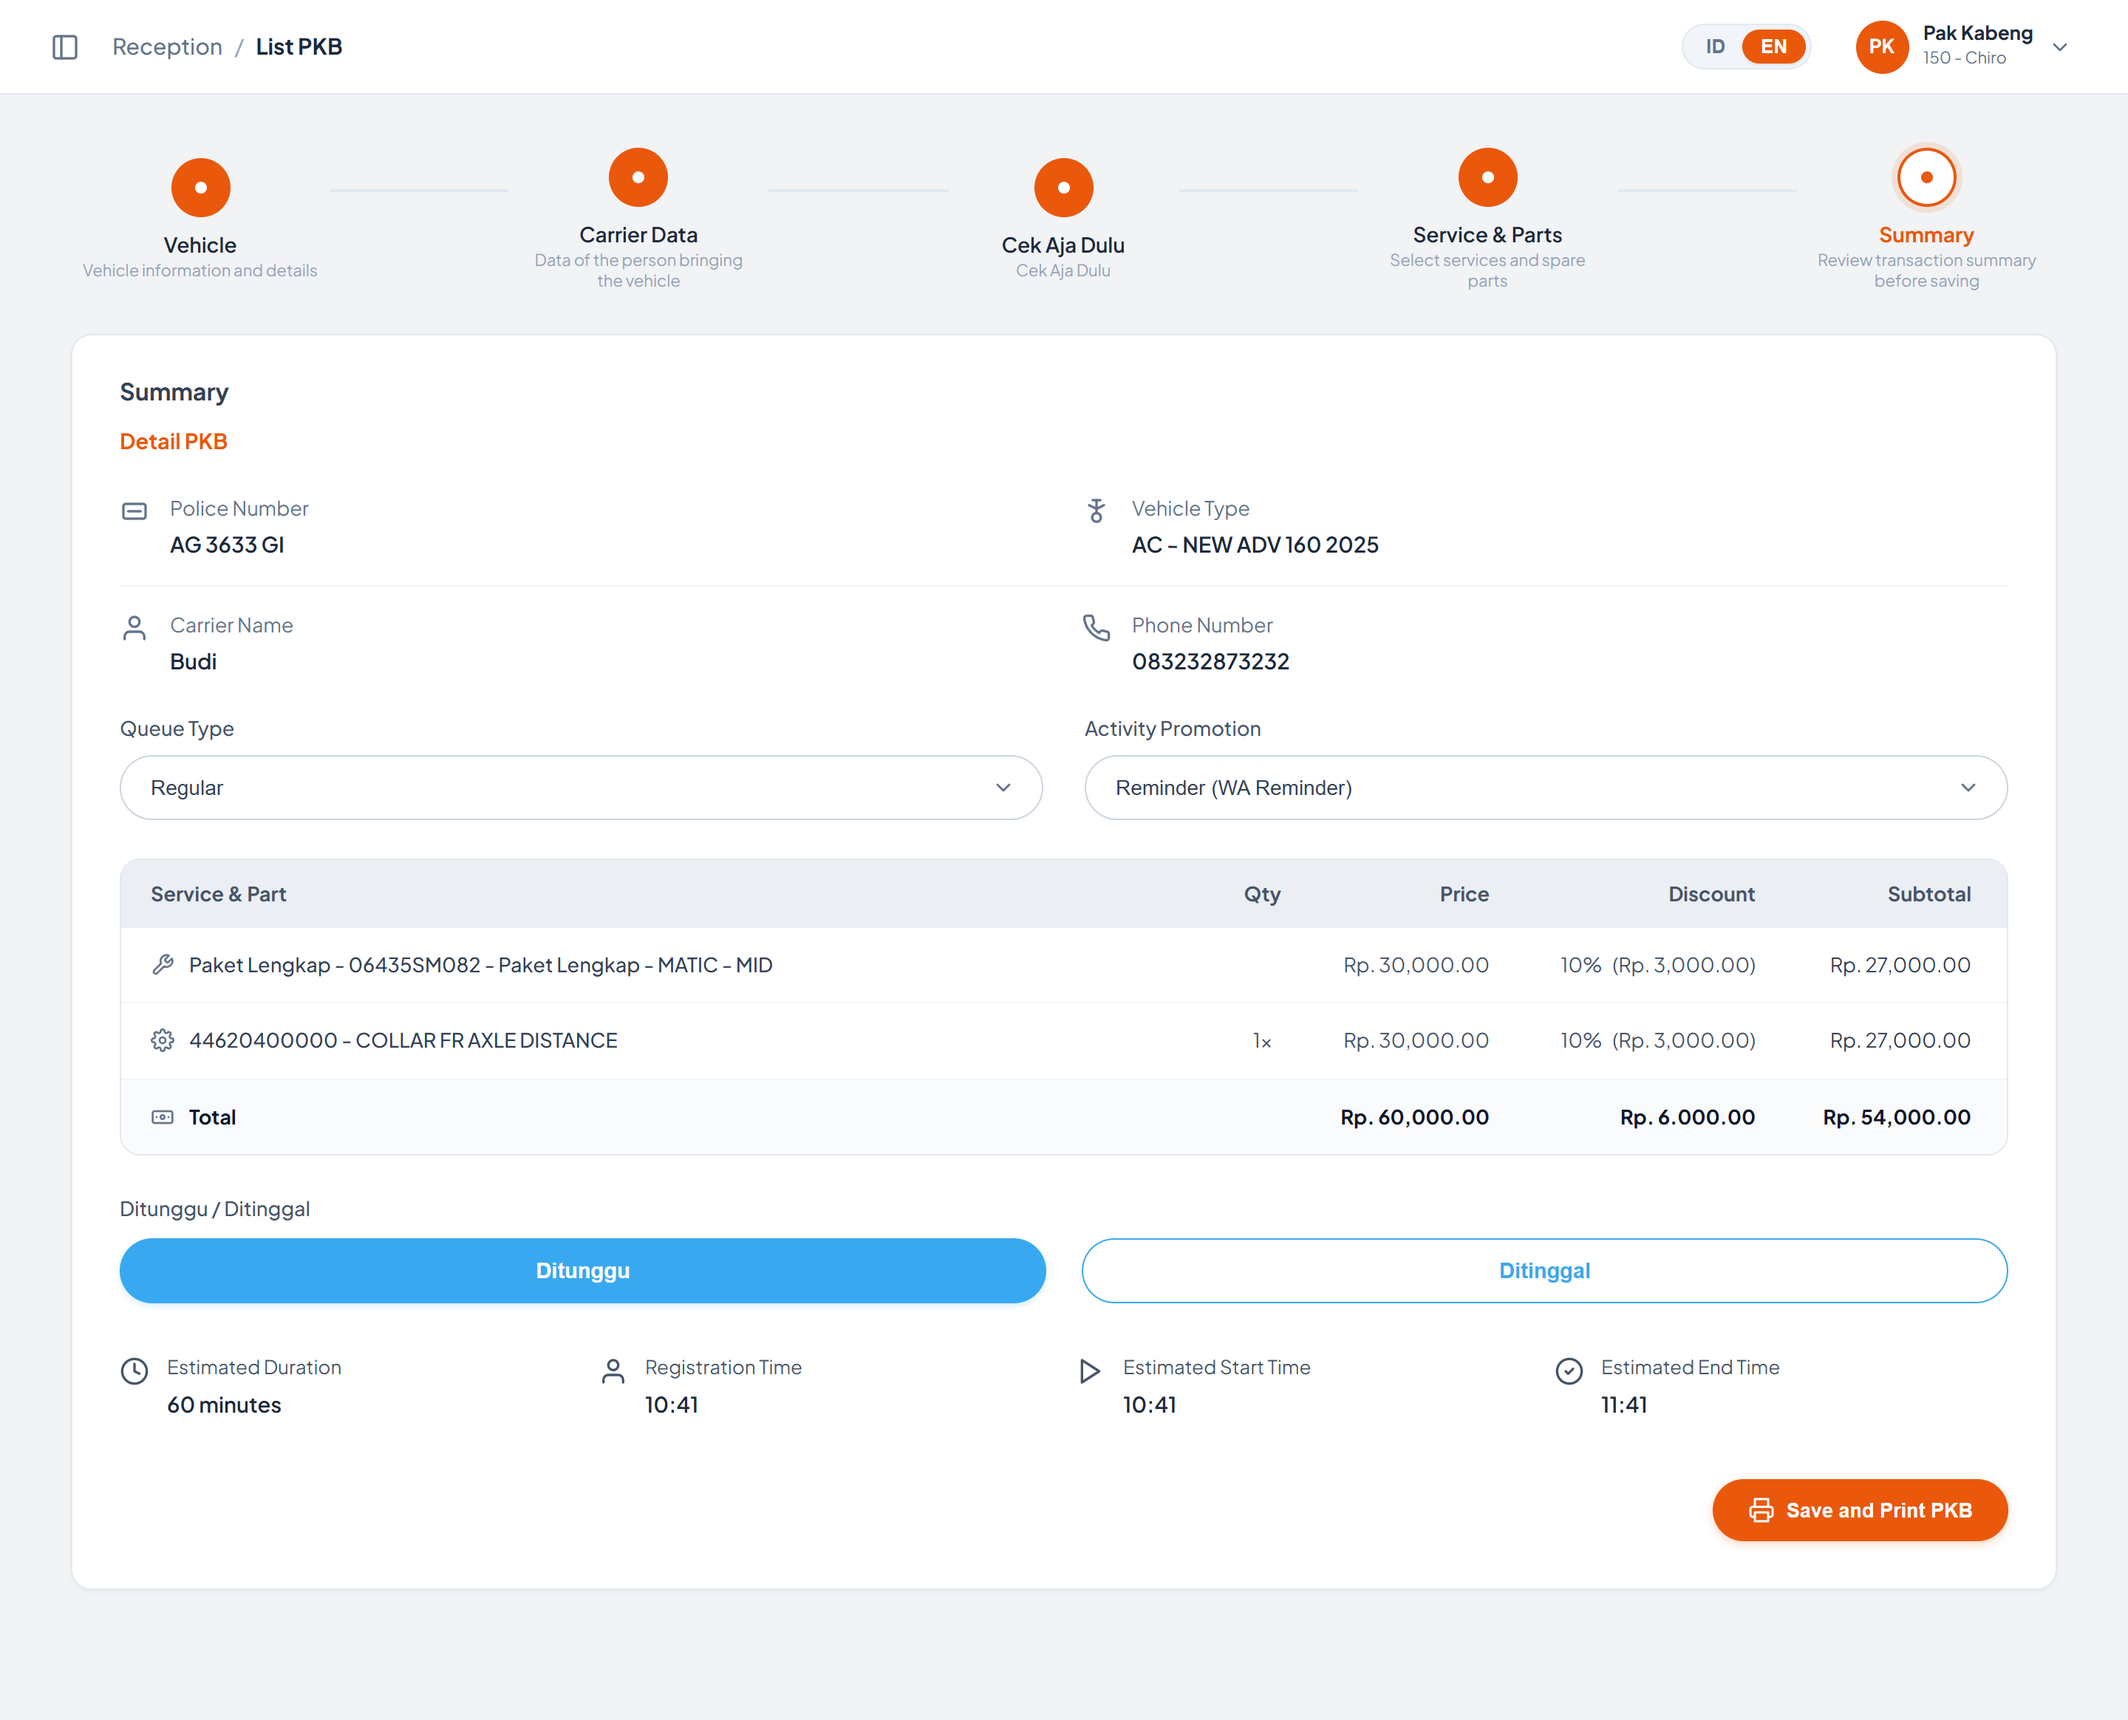
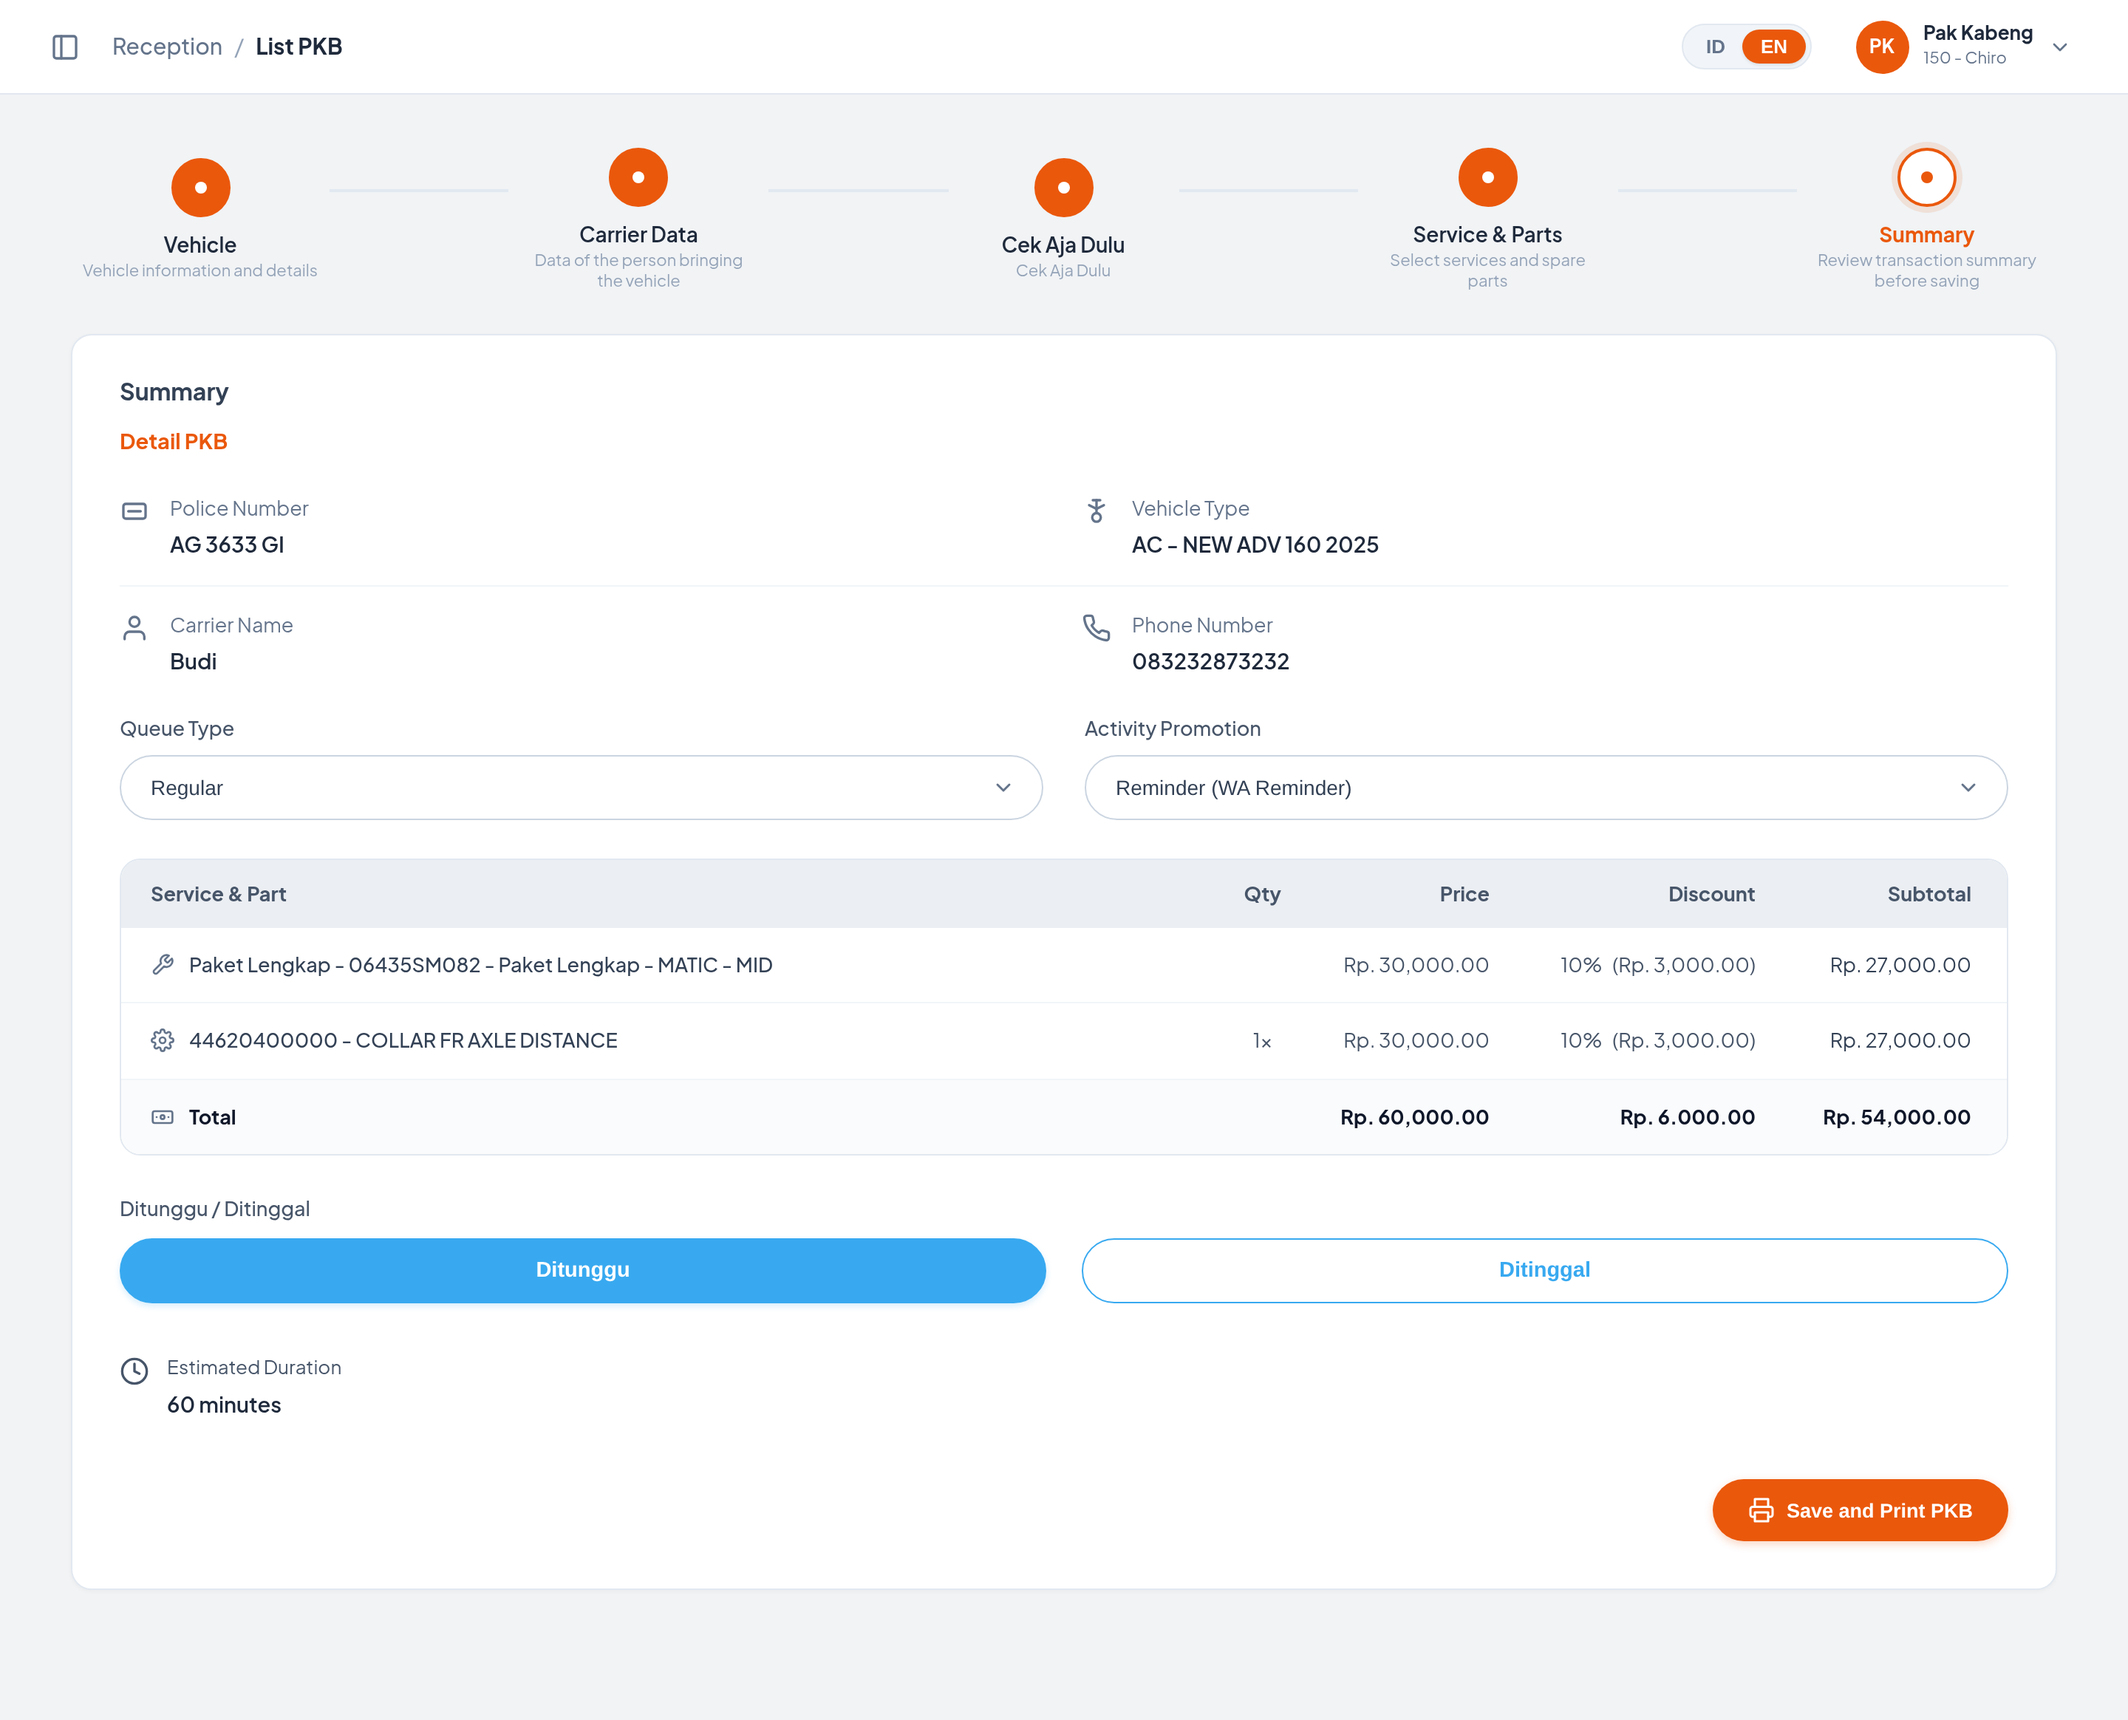
feat(list-canvasing): remove Registration/Start/End Time from Summary step

diff --git a/List Canvasing/index.html b/List Canvasing/index.html
@@ -1,6 +1,5 @@
 <!DOCTYPE html>
-<html lang="id">
-
+<
 <head>
   <meta charset="UTF-8">
   <meta name="viewport" content="width=device-width, initial-scale=1.0">
@@ -2214,44 +2213,6 @@
                   <div class="summary-timing-content">
                     <span class="summary-timing-label">Estimated Duration</span>
                     <span class="summary-timing-value">60 minutes</span>
-                  </div>
-                </div>
-
-                <div class="summary-timing-item">
-                  <div class="summary-timing-icon">
-                    <svg width="20" height="20" viewBox="0 0 24 24" fill="none" stroke="currentColor" stroke-width="2" stroke-linecap="round" stroke-linejoin="round">
-                      <path d="M20 21v-2a4 4 0 0 0-4-4H8a4 4 0 0 0-4 4v2"></path>
-                      <circle cx="12" cy="7" r="4"></circle>
-                    </svg>
-                  </div>
-                  <div class="summary-timing-content">
-                    <span class="summary-timing-label">Registration Time</span>
-                    <span class="summary-timing-value">10:41</span>
-                  </div>
-                </div>
-
-                <div class="summary-timing-item">
-                  <div class="summary-timing-icon">
-                    <svg width="20" height="20" viewBox="0 0 24 24" fill="none" stroke="currentColor" stroke-width="2" stroke-linecap="round" stroke-linejoin="round">
-                      <polygon points="5 3 19 12 5 21 5 3"></polygon>
-                    </svg>
-                  </div>
-                  <div class="summary-timing-content">
-                    <span class="summary-timing-label">Estimated Start Time</span>
-                    <span class="summary-timing-value">10:41</span>
-                  </div>
-                </div>
-
-                <div class="summary-timing-item">
-                  <div class="summary-timing-icon">
-                    <svg width="20" height="20" viewBox="0 0 24 24" fill="none" stroke="currentColor" stroke-width="2" stroke-linecap="round" stroke-linejoin="round">
-                      <circle cx="12" cy="12" r="10"></circle>
-                      <polyline points="9 12 11 14 15 10"></polyline>
-                    </svg>
-                  </div>
-                  <div class="summary-timing-content">
-                    <span class="summary-timing-label">Estimated End Time</span>
-                    <span class="summary-timing-value">11:41</span>
                   </div>
                 </div>
               </div>

diff --git a/List Canvasing/docs/list-canvasing.md b/List Canvasing/docs/list-canvasing.md
@@ -192,7 +192,7 @@ Modal menggunakan satu markup yang sama (`inputDataModal`) dengan dua mode:
 | LOV-Activity Promotion | LIST OF VIEW | Menentukan sumber aktivitas promosi yang membawa pelanggan | Nilai default terpilih: **Reminder (WA Reminder)**<br><br>Pilihan yang tersedia: Reminder (WA Reminder), Promo Merdeka, Service Berkala, Direct Mail<br><br>Saat diubah muncul toast **"Activity Promotion dipilih: `<pilihan>`"**<br><br>**Catatan pengembangan:** isi dropdown masih hardcode; perlu di-binding ke master aktivitas promosi | Yes | | | | | |
 | TABLE-Service & Part (Summary) | TABLE | Menampilkan rincian jasa dan part beserta nilai transaksinya | Kolom: **Service & Part**, **Qty**, **Price**, **Discount**, **Subtotal**, ditutup baris **Total**<br><br>Ikon pada tiap baris membedakan jenis item (jasa atau part)<br><br>**Catatan pengembangan / Bug:** <br> 1. Isi tabel masih **statis di HTML** dan tidak diambil dari daftar Service & Part pada Step 4 <br> 2. Nilai **Discount** pada baris Total tertulis `Rp. 6.000.00` (format pemisah desimal/ribuan tidak konsisten) <br> 3. Format mata uang antar step belum seragam (`Rp. 30,000.00` di tabel ini vs `Rp. 22.500` di Ringkasan Transaksi Step 4) | | | | | | |
 | BUTTON-Ditunggu / Ditinggal | BUTTON (SEGMENTED) | Menandai apakah pelanggan menunggu di bengkel atau meninggalkan kendaraan | Bersifat pilihan tunggal, default aktif: **Ditunggu**<br><br>Saat dipilih muncul toast **"Status penanganan PKB: `<pilihan>`"**<br><br>**Catatan pengembangan:** pilihan belum memengaruhi jenis antrean maupun estimasi waktu pengerjaan | Yes | | | | | |
-| LABEL-Estimasi Waktu | LABEL | Menampilkan estimasi waktu pengerjaan PKB | Field yang ditampilkan: <br> * **Estimated Duration** (contoh: 60 minutes) <br> * **Registration Time** (contoh: 10:41) <br> * **Estimated Start Time** (contoh: 10:41) <br> * **Estimated End Time** (contoh: 11:41)<br><br>**Catatan pengembangan:** seluruh nilai masih **statis di HTML** — seharusnya Registration Time diambil dari jam pendaftaran, dan durasi dihitung dari akumulasi estimasi durasi jasa yang dipilih pada Step 4 | | | | | | |
+| LABEL-Estimasi Waktu | LABEL | Menampilkan estimasi waktu pengerjaan PKB | Field yang ditampilkan: **Estimated Duration** (contoh: 60 minutes)<br><br>**Catatan pengembangan:** nilai masih **statis di HTML** — seharusnya durasi dihitung dari akumulasi estimasi durasi jasa yang dipilih pada Step 4 | | | | | | |
 | BUTTON-Save and Print PKB | BUTTON | Menyimpan data PKB dan mencetak dokumen PKB | Saat diklik muncul toast **"Menyimpan data dan mencetak PKB..."**, lalu setelah **1 detik** muncul toast **"PKB #PKB-2026-00892 berhasil disimpan & diteruskan ke mekanik!"**<br><br>**Catatan pengembangan / Bug:** <br> 1. Nomor PKB pada notifikasi masih **hardcode** (`PKB-2026-00892`) dan tidak sesuai kode PKB yang dibuka <br> 2. Data **tidak benar-benar tersimpan** — daftar PKB pada dashboard tidak diperbarui dan status PKB tidak berubah <br> 3. Setelah simpan, tampilan **tidak kembali** ke dashboard List PKB <br> 4. Belum ada proses cetak dokumen PKB yang sesungguhnya | | | Dashboard List PKB Canvasing | | | |
 
 ---
